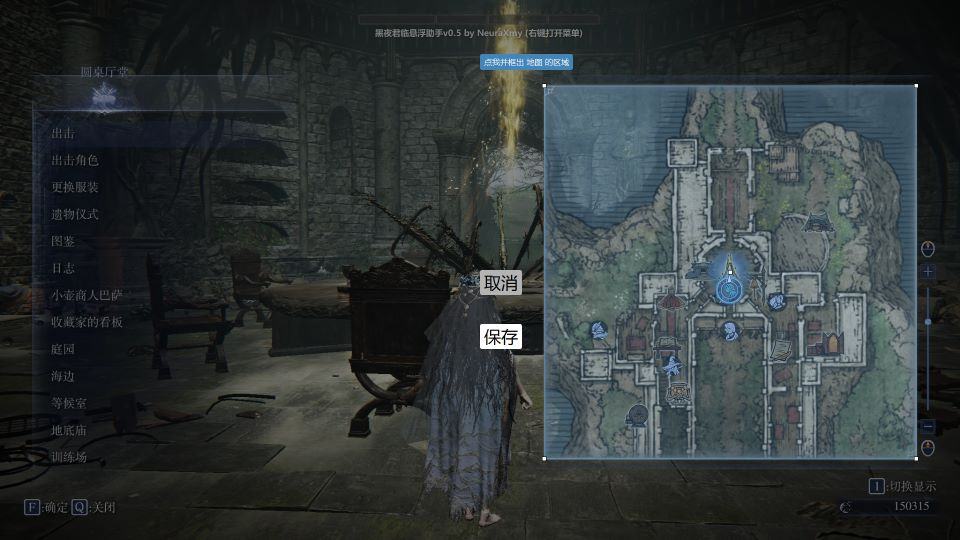
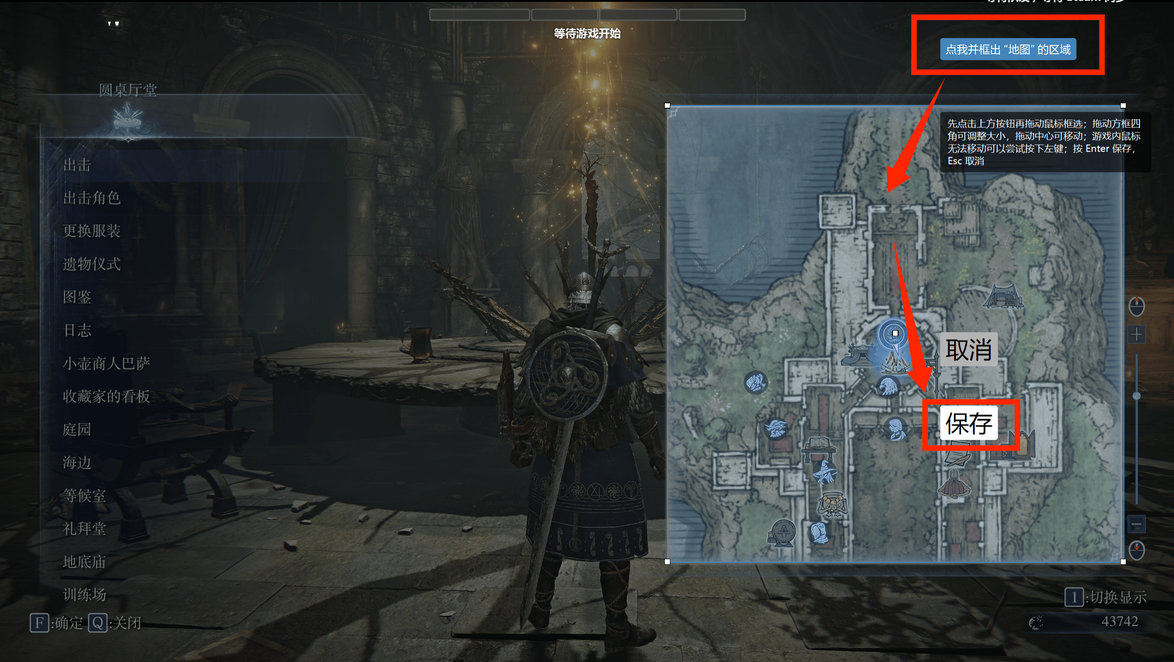
Update tutorial images and enhance Chinese markdown documentation for map detection and P2P latency features. Improve clarity and functionality in user instructions.

diff --git a/src/nightreign_overlay/plugins/map_detect/tutorial/zh_CN.md b/src/nightreign_overlay/plugins/map_detect/tutorial/zh_CN.md
@@ -1,33 +1,58 @@
-# 地图信息
+## 功能介绍
 
-该功能通过解包数据展示详细地图剧透。请确保不会影响你和队友的游戏体验。地图解包数据来自 Fuwish@bilibili；部分地图数据可能有错误。
+通过识别地图中的特殊地形、夜王头像、据点类型，筛选出地图种子，显示该种子对应的详细据点信息；支持包括 DLC 在内的所有地图，以及隐藏夜王、隐藏地图详细信息事件（可能需要手动筛选）。
 
-1. 在设置页点击地图区域的「标定」，或先绑定标定快捷键后在游戏中按键。
+## 声明
 
-   ![区域快捷键](1.jpg)
+该功能会**较大程度影响正常游戏流程**，不推荐在野排或未与队友良好沟通的前提下使用。
 
-2. 在有地图的游戏画面中框选地图，选区边缘必须和地图边框完全贴合。保存时按旧版取选区左上角、宽高较小者作为边长，保持正方形。
+## 初次设置
 
-   ![地图选区](2.jpg)
+### 1. 对地图区域进行标定。
 
-3. 返回设置确认显示「已标定」。悬停眼睛图标可预览区域。
+建议设置手柄或键盘快捷键，然后进入游戏中的大赐福或者任意能打开地图界面的场景，按下快捷键进入标定界面。
 
-   ![确认区域](3.jpg)
+![设置标定快捷键](1.jpg)
 
-地图必须缩放到最小、完整显示才可识别。Day1 计时开始（自动或手动）会准备一次识别；启动、重新标定和「识别地图」操作也会准备识别。实际旧版代码还每隔 2100 秒准备重新识别，新版保留这一行为。准备时先清除旧信息，再等下一帧；地形匹配成功后才匹配地图，避免地图刚打开仍半透明时识别。
+点击右上角按钮开始框选（如果鼠标无法移动可以尝试按一下左键），框选**地图的正方形区域**，框选后按 Enter 或保存按钮进行确认。
 
-除标定外的快捷键统一放在设置页的「快捷键」分组中，可绑定重新识别、显隐切换、候选切换、水晶布局切换及手动筛选。需要鼠标操作时，可使用地图下方的操控栏。
+![标定界面](2.jpg)
 
-识别结果叠加到原地图上，暂不跟随地图缩放。完整地图打开／关闭时自动渐显／渐隐，也可手动显示／隐藏。可绑定「下一个／上一个识别结果」切换候选；默认返回 3 个，范围 1–10。大空洞识别后同时显示水晶点位，可在「所有」和四种布局间循环，图例区分地面、地下和额外水晶。
+回到主界面，看到绿色“已标定”即成功，鼠标悬浮在眼睛图标上可以看到已标定的区域。
 
-保留信息包括 Day1／Day2 及额外 Boss、野外与主城 Boss、主城及下水道类型、建筑与属性、法师塔、马车、特殊事件、血瓶、神授塔楼层 Boss、宝藏、癫火塔与腐败庇佑。游戏内容名称和图内图例沿用旧版中文数据。
+### 2. 熟悉手动筛选。
 
-HDR 归一化使用通用设置中的 HDR 图像处理开关。地图识别使用旧版 LAB／CLAHE，其他功能各按自己的处理方式读取共享帧。
+某些情况下识别失败，或是深夜模式地图详细信息缺失的事件，可以通过界面下方按钮进入手动筛选模式；
 
-设置页的「高级检测选项」可调整自动匹配间隔（默认 2100 秒）、完整地图误差阈值（20）、地图画面变化阈值（2 灰度级）、地图稳定时间（0.6 秒）、特殊地形误差阈值（50）、POI 子图标阈值（0.06），以及已匹配／未匹配夜王时的 POI 采样比例（均为 1.0）。稳定检测比较连续截图的主体变化，超过变化阈值会重新计时；稳定时间越长越能避开地图淡入，也会延迟识别。误差阈值越大，判断越宽松；子图标匹配分数高于阈值时视为没有子图标。降低采样比例可减少耗时，但可能降低识别稳定性；采样仍遵循旧版至少 8 点的规则。修改后的参数用于后续检测；已有候选结果需点击「识别地图」重新生成。
+首先选择特殊地形和夜王，之后在地图上的据点位置进行设置（“自动识别”仅适用于地图信息缺失事件中，把据点攻破后据点图标显露的情况）。
 
-这些参数仍保存在用户 settings.yaml 的 `plugins.map_detect` 中，默认值与旧版 config.yaml 相同。`full_map_hough_circle_thres`（霍夫圆阈值列表）、`fixed_map_overlay_draw_size`（固定绘制尺寸）和 `map_overlay_draw_size_ratio`（绘制比例）继续通过配置文件调整。
+右下角显示当前的候选地图数量，当小于一定数量时会自动结束筛选。
 
-标定保存时输出 `map_region_screenshot.jpg`；识别仍输出 `map.jpg`、`map_poi_result.jpg` 和 `map_overlay_result_<序号>.jpg`，便于反馈排查；新版输出到自己的用户数据目录。
+![手动筛选](3.jpg)
 
-「上一张／下一张地图」「上一个／下一个水晶布局」和「重新识别」快捷键仅在地图信息悬浮窗显示时响应；隐藏时按键不会修改候选、布局或识别状态。自动识别仍按 Day1、标定及匹配间隔等条件触发。
+### 3. 触发识别
+
+设置完毕后，当局内小地图完全打开时就会触发自动识别。
+
+开启下一局游戏时，如何重新识别？
+
+1. 若开启缩圈计时功能，则 DAY I 开始时会自动重新识别
+2. 按下 “重新识别” 按钮或者用快捷键触发重新识别
+3. 成功进行一次识别后，经过 “高级选项” 中 “重新匹配” 间隔设置的秒数（大约是一局时间），自动重置
+
+## 效果
+
+![外观](4.jpg)
+
+左下角按钮或者快捷键可以切换地图候选，当识别错误时不妨先查看其他候选里是否有正确的地图。
+
+对于大空洞也可切换几种水晶布局。
+
+## 注意事项
+
+识别时请勿频繁开关地图。
+
+只能在地图最小化的情况下识别，不支持缩放小地图。
+
+其他无法识别、识别不准等问题，可参照“常见问题”页面。
+

diff --git a/src/nightreign_overlay/plugins/p2p_latency/tutorial/zh_CN.md b/src/nightreign_overlay/plugins/p2p_latency/tutorial/zh_CN.md
@@ -1,29 +1,14 @@
 # 联机状态
 
-启用后显示 Steam 联机队友的昵称、Ping 和稳定度。未连接游戏或 Steam 时显示当前状态，游戏运行但尚未找到有效会话时显示“等待队友 / 等待 Steam 同步”。本功能独立运行，不依赖截图或标定。
+启用后显示 Steam 联机队友的昵称、Ping 和稳定度。
 
-## Windows
+## 初次设置
 
-需要 Steam 已登录、游戏正在运行以及已构建的 `NightreignP2PHelper.exe`。开发环境执行仓库中的 `scripts/build_p2p_helper.ps1`。发布包需要保留 `bin` 中的 EXE 和 `amd64` 支持 DLL，详情见仓库 README。
+保证以管理员模式打开悬浮助手，之后打开游戏即可使用。
 
-新 Steam 接口直接返回延迟和本地连接质量；旧接口通过管理员权限下的 ETW 网络事件推断 STUN 往返时间。Windows 主程序启动时默认请求管理员权限，请在系统授权窗口中允许；取消授权则提示并退出。联机插件也会在激活时检查权限，无管理员权限时启动失败。可在设置的运行状态中查看 SteamAPI、ETW 和辅助进程状态。
+可以在设置中单独调整悬浮窗的外观。
 
-源码运行支持直接查找仓库 `bin/`、`build/p2p/bin/` 和原生项目的 Debug／Release 构建输出。若提示未找到联机组件，请在仓库根目录执行 `powershell -ExecutionPolicy Bypass -File scripts/build_p2p_helper.ps1`，或通过环境变量 `NIGHTREIGN_P2P_HELPER_PATH` 指定完整组件路径。组件所需依赖必须保留在其相邻目录。
+## 注意事项
 
-旧接口的稳定度使用最近最多 10 个有效 RTT 样本的标准差计算，至少 3 个样本才显示。它衡量延迟抖动，不是丢包率；新接口显示 Steam 自身提供的本地连接质量，两者含义不同。
+设置界面最下方可查看该功能的运行状态。
 
-Ping 默认小于 80ms 为绿、80～149ms 为黄、150ms 起为红，可在设置中修改。缺失延迟显示灰色 `-- ms`，缺失稳定度显示 `--`。悬停玩家名称可查看 SteamID、接口和延迟来源。
-
-## 悬浮窗调整
-
-悬浮窗没有面板背景和标题，文字带有与主悬浮窗相同的阴影。正常运行时直接显示玩家列表；未知指标仍显示 `--`，接口和来源可通过昵称提示查看。
-
-复用主悬浮窗的通用设置：大小、透明度、普通/锁定/鼠标穿透，以及位置重置。普通模式可直接拖动，锁定模式保持位置，鼠标穿透模式允许操作下方游戏。大小默认 100%，透明度默认 75%，默认位于主屏右上方；重置后立即保存位置，无需再拖动。窗口以右上角为锚点，大小变化时锚点位置保持不变。右键打开主界面或退出程序（穿透模式下请从主界面调整）。
-
-窗口遵循通用设置中的前台显示规则，包括主界面、菜单和标定选区的临时显示例外；普通窗口模式与主悬浮窗一致，不受游戏前台显示门控。游戏切到后台只隐藏透明窗口，不暂停 Steam / ETW 网络查询；全局“显示和检测”选项暂停的是截图检测，网络查询仍沿用旧版独立运行的行为。
-
-## macOS 开发模拟
-
-macOS 自动启动独立 Python 模拟程序，沿用同样的 JSONL 通信和一秒更新间隔，无需 Steam、管理员权限或 .NET。状态区域明确标明模拟数据。
-
-约 32 秒一轮，依次演示：等待队友、旧接口指标为空、两名队友、绿/黄/红延迟、新队友加入与行顺序保持、队友清空。插件关闭后模拟进程退出，重新启用从头演示。这仅验证主程序的设置、显示和生命周期，不能验证 Windows 的 Steam/ETW 测量。
